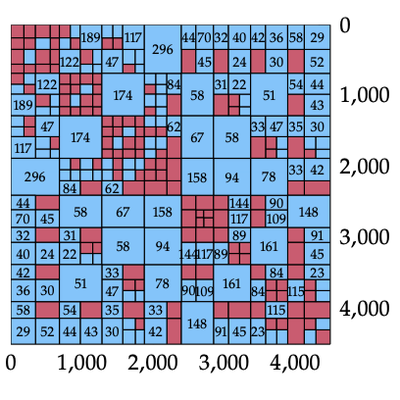
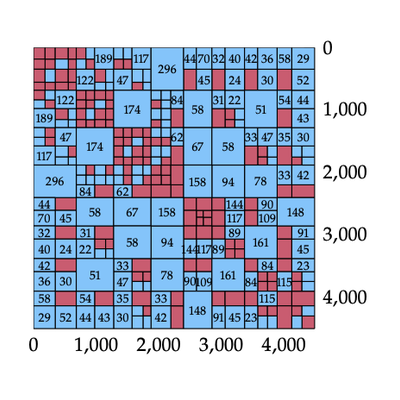
revising research and software

diff --git a/_sass/_layout.scss b/_sass/_layout.scss
@@ -68,18 +68,17 @@ body.sticky-bottom-footer {
     margin: 1.25rem 0;
   }
 
-  .software-brand {
-    background: #000;
-    padding: 1rem 1.25rem;
-    border-radius: 0.25rem;
-    margin: 1rem 0 1.25rem;
+  img.figure-line-75,
+  p > img.figure-line-75 {
+    width: 75%;
+    max-width: 75%;
+    height: auto;
+    display: block;
+    margin: 1.25rem auto;
 
-    img {
+    @media (max-width: 576px) {
       width: 100%;
-      max-width: 42rem;
-      height: auto;
-      display: block;
-      margin: 0;
+      max-width: 100%;
     }
   }
 
@@ -90,6 +89,21 @@ body.sticky-bottom-footer {
     height: auto;
     display: block;
     margin: 1.25rem 0;
+
+    @media (max-width: 576px) {
+      width: 100%;
+      max-width: 100%;
+    }
+  }
+
+  // 75% of figure-half width (37.5% line), centered
+  img.figure-half-75,
+  p > img.figure-half-75 {
+    width: 37.5%;
+    max-width: 37.5%;
+    height: auto;
+    display: block;
+    margin: 1.25rem auto;
 
     @media (max-width: 576px) {
       width: 100%;

diff --git a/_pages/software.md b/_pages/software.md
@@ -35,16 +35,14 @@ pip install torch-harmonics
 
 [Makani](https://github.com/NVIDIA/makani) is a training framework for large machine-learning weather and climate models in PyTorch. It scales from a single GPU to thousands on ERA5-scale and similar reanalysis datasets, with data pipelines, model configurations, and distributed training utilities built in. Makani was used to train [FourCastNet](https://github.com/NVlabs/FourCastNet), [SFNO](https://developer.nvidia.com/blog/modeling-earths-atmosphere-with-spherical-fourier-neural-operators/), and [AFNO](https://arxiv.org/abs/2111.13587).
 
-<img class="figure-half" src="https://github.com/NVIDIA/modulus-makani/blob/main/images/sfno_rollout.gif?raw=true" alt="Makani SFNO weather rollout">
+<img class="figure-half-75" src="https://github.com/NVIDIA/modulus-makani/blob/main/images/sfno_rollout.gif?raw=true" alt="Makani SFNO weather rollout">
 
 ## neuraloperator
 
 [![PyPI](https://img.shields.io/pypi/v/neuraloperator)](https://pypi.org/project/neuraloperator/)
 [![tests](https://github.com/NeuralOperator/neuraloperator/actions/workflows/test.yml/badge.svg)](https://github.com/NeuralOperator/neuraloperator/actions/workflows/test.yml)
 
-<p class="software-brand">
-  <img src="{{ '/assets/img/software/neuraloperator_logo_long.png' | relative_url }}" alt="NeuralOperator logo">
-</p>
+<img class="figure-line-75" src="{{ '/assets/img/software/neuraloperator_logo_long.png' | relative_url }}" alt="NeuralOperator logo">
 
 [NeuralOperator](https://github.com/NeuralOperator/neuraloperator) is a PyTorch library for learning mappings between function spaces—neural operators that generalize across resolutions and domains. It ships the reference implementations of Fourier Neural Operators and related architectures (FNO, tensorized TFNO, Galerkin-style layers), together with training utilities and PDE benchmark examples. Operators are resolution invariant: a model trained on one grid can be applied on another without retraining. The project is part of the [PyTorch ecosystem](https://pytorch.org/blog/neuraloperatorjoins-the-pytorch-ecosystem); see the [documentation](https://neuraloperator.github.io/dev/index.html) and the [practical guide](https://arxiv.org/abs/2512.01421) for tutorials. I contribute to the core library and use it across several operator-learning projects.
 
@@ -59,7 +57,7 @@ pip install neuraloperator
 
 [HssMatrices.jl](https://github.com/bonevbs/HssMatrices.jl) implements hierarchically semi-separable (HSS) matrices in Julia for PDE-related linear algebra. HSS compression represents dense blocks arising in sparse factorizations by low-rank structure, enabling fast matrix–vector products and approximate arithmetic. The package includes construction, multiplication, factorization hooks, and tools to visualize rank structure—useful when developing hierarchical preconditioners for wave problems.
 
-<img class="figure-half" src="https://raw.githubusercontent.com/bonevbs/HssMatrices.jl/main/img/plotranks.svg" alt="HSS matrix rank structure">
+<img class="figure-half-75" src="https://raw.githubusercontent.com/bonevbs/HssMatrices.jl/main/img/plotranks.svg" alt="HSS matrix rank structure">
 
 ## HierarchicalSolvers.jl
 

diff --git a/_pages/research.md b/_pages/research.md
@@ -17,7 +17,7 @@ Scientific machine learning is reshaping how we model complex physical systems. 
 
 My recent work emphasizes ML methods for science and engineering, including AI weather and climate models. [Spherical Fourier Neural Operators](https://arxiv.org/abs/2306.03838) generalize Fourier Neural Operators to spherical geometry for global atmospheric dynamics. See the [NVIDIA blog post](https://developer.nvidia.com/blog/modeling-earths-atmosphere-with-spherical-fourier-neural-operators/) and [ICML paper](https://openreview.net/forum?id=TwsJ9IOZDx). Related directions include the **numerics of ML methods**, **geometric machine learning** on spheres and other manifolds, and **uncertainty quantification** for operational use.
 
-![Spherical Fourier Neural Operators demo](https://developer-blogs.nvidia.com/wp-content/uploads/2023/07/figure_1.11-2.gif)
+![FourCastNet 3 ensemble rollout trained with Makani](https://raw.githubusercontent.com/NVIDIA/makani/main/images/fcn3_ens15.gif)
 
 I believe numerical methods and machine learning will keep converging: ideas from traditional numerics—stability, preconditioning, multiscale structure—are showing up in learned models, and ML is feeding back into how we build solvers and discretizations.
 